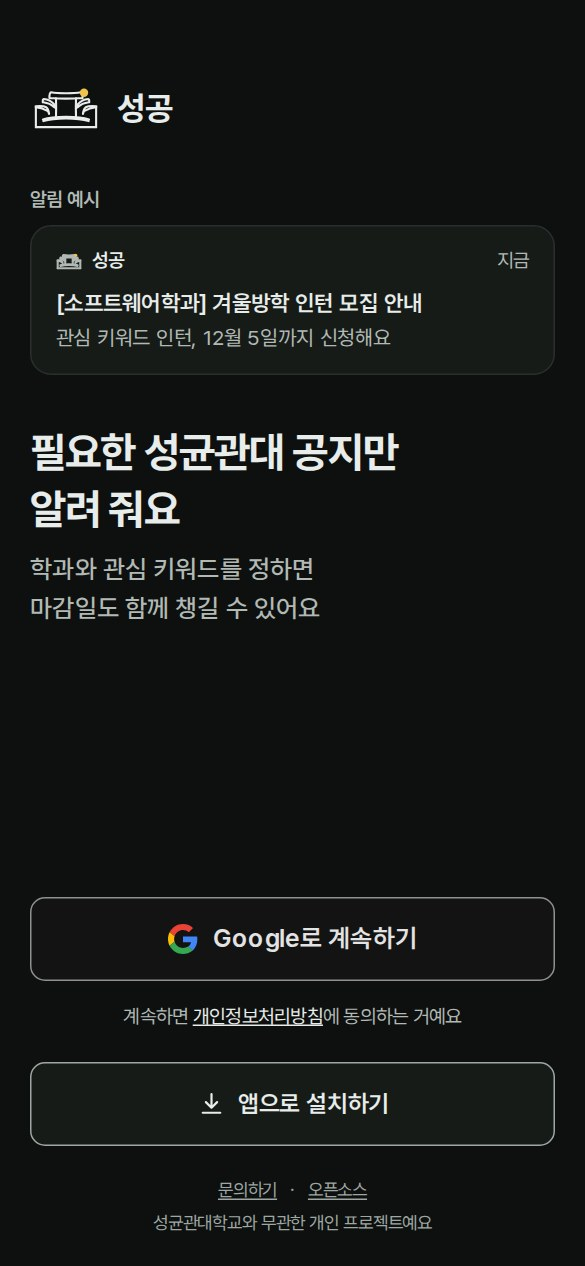
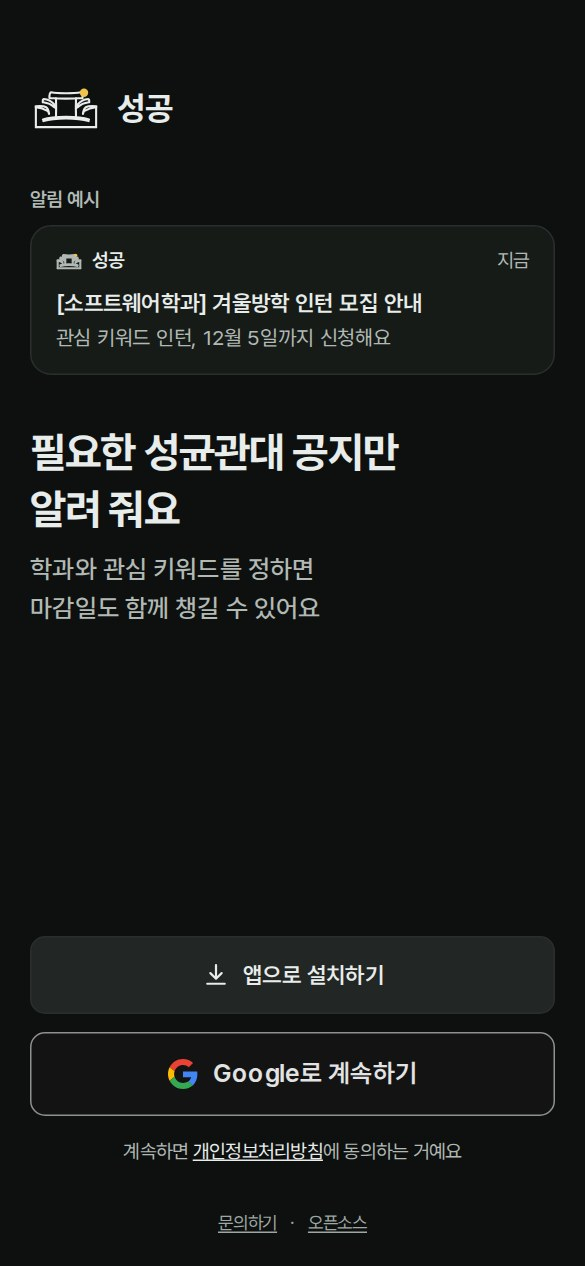
feat(web): 설치 단추를 로그인 화면의 Google 단추 위로 옮기고, 하단 링크를 화면 맨 아래에 둔다
설치는 테두리 옅은 면으로 가볍게 그려 Google이 주 행동으로 남게 하고, 하단 묶음을 바닥에 붙여 설치 신호가 늦어도 Google 단추 자리가 움직이지 않게 한다. 로그인 뒤에는 팝업 없이 설정의 앱 설치 줄(안드로이드 단추, iOS 안내)에서만 안내한다. 필수가 아닌 성균관대 무관 안내는 뺐다. README 로그인 캡처를 새로 찍었다. 독립 평가 8.2. 웹 단위 188, e2e 96 통과.

Changed region(s): [[0.0308, 0.7085, 0.9538, 0.9858], [0.9231, 0.8318, 0.9538, 0.8934], [0.0308, 0.8626, 0.0615, 0.8934]]

diff --git a/web/src/login-screen.tsx b/web/src/login-screen.tsx
@@ -18,11 +18,10 @@ export function LoginStatus({ text }: { text: string }) {
 export function LoginScreen({ app }: { app: AppController }) {
   const busy = app.authBusy;
   // 휴대폰에서만 "앱으로 설치하기"를 보인다. 주 행동은 Google 단추 하나이고 설치는 그 아래 조용한 보조 행동이다.
-  const reserve = /Android/.test(navigator.userAgent) && installMode(navigator.userAgent, isStandalone(), true) !== 'none';
   const mode = installMode(navigator.userAgent, isStandalone(), !!app.install);
   // 토스 첫 화면 구성(TDS Top: 위 그림, 28px 제목, 17px 설명, 아래 고정 단추 하나)을 따른다. 가운데에는 이 앱이 하는 일을 알림 예시 하나로 보여 준다.
-  return <div className="flex flex-col min-h-dvh bg-bg min-[720px]:items-center min-[720px]:justify-center">
-    <div className="flex flex-1 flex-col w-full px-[20px] py-0 min-[720px]:flex-none min-[720px]:max-w-[420px] min-[720px]:px-0 min-[720px]:py-[48px]">
+  return <div className="flex flex-col min-h-dvh bg-bg">
+    <div className="flex flex-1 flex-col w-full px-[20px] py-0 min-[720px]:my-auto min-[720px]:flex-none min-[720px]:max-w-[420px] min-[720px]:self-center min-[720px]:px-0 min-[720px]:py-[48px]">
       <div className="flex flex-1 flex-col pt-[calc(48px_+_env(safe-area-inset-top))] min-[720px]:flex-none min-[720px]:pt-0">
         {/* 맨 위에 앱 아이콘과 이름(사용자 요청: 아이콘은 보여야 한다), 그 아래 TDS Top의 그림 자리에 알림 예시를 둔다. */}
         <div className="flex items-center gap-[10px] mb-[28px] text-[22px] leading-[30px] font-bold text-ink"><svg className="w-[48px] h-[48px] flex-none" aria-hidden="true"><use href="icons/sprite.svg#brand" /></svg><span>{APP_NAME}</span></div>
@@ -44,6 +43,11 @@ export function LoginScreen({ app }: { app: AppController }) {
         </div>
       </div>
       <div className="pt-[24px] pb-[calc(20px_+_env(safe-area-inset-bottom))] min-[720px]:mt-0 min-[720px]:pb-0">
+        {/* 설치 안내는 Google 단추 위에 둔다. 아래 묶음이 화면 바닥에 붙어 있어 이 칸이 생기거나 사라져도 Google 단추 자리는 움직이지 않는다. 눌리는 곳이지만 Google 단추보다 가볍게(테두리 없는 옅은 면) 그린다. */}
+        {mode === 'prompt' ? <button type="button" className="mb-[12px] flex h-[52px] w-full items-center justify-center gap-[8px] rounded-md border border-line bg-sunken text-[15px] font-semibold text-ink active:bg-line min-[720px]:hidden" onClick={() => { void app.runInstall(); }}>
+          <svg viewBox="0 0 24 24" width="20" height="20" fill="none" stroke="currentColor" strokeWidth="1.75" strokeLinecap="round" strokeLinejoin="round" aria-hidden="true" className="flex-none"><path d="M12 4v11M7.5 10.5L12 15l4.5-4.5M5 19h14" /></svg>앱으로 설치하기</button> : null}
+        {/* iOS Safari에는 설치 창이 없어서 누르는 단추가 아니라 방법만 조용히 알려 준다(면과 테두리를 주지 않아 눌리는 곳처럼 보이지 않게). */}
+        {mode === 'ios' ? <p className="m-0 mb-[12px] text-center text-[14px] leading-[21px] text-ink-2 min-[720px]:hidden">공유 버튼에서 <b className="font-semibold text-ink">‘홈 화면에 추가’</b>를 고르면<br />앱처럼 쓸 수 있어요</p> : null}
         <button type="button" className="flex items-center justify-center gap-[10px] w-full h-[56px] border border-[light-dark(#747775,#8E918F)] rounded-md bg-[light-dark(#FFFFFF,#131314)] text-[light-dark(#1F1F1F,#E3E3E3)] text-[17px] font-semibold [&:active:not(:disabled)]:bg-[light-dark(#F2F2F2,#1E1F20)] disabled:opacity-70 focus-visible:outline-2 focus-visible:outline-accent focus-visible:outline-offset-2" disabled={busy} aria-busy={busy} onClick={() => { void app.signIn(); }}>
           {busy ? null : <GoogleG />}
           <span>{busy ? 'Google로 이동하고 있어요' : 'Google로 계속하기'}</span>
@@ -52,17 +56,9 @@ export function LoginScreen({ app }: { app: AppController }) {
           {app.authError ? <p className="m-0 text-[14px] leading-[20px] text-center text-danger" role="alert">{app.authError}</p> : null}
         </div>
         <p className="m-0 mt-[14px] text-[13px] leading-[20px] text-center text-ink-2 min-[720px]:text-[14px]">계속하면 <a className="inline-block px-[4px] py-[12px] -mx-[4px] -my-[12px] text-ink" href="./privacy.html">개인정보처리방침</a>에 동의하는 거예요</p>
-        {/* 설치 칸은 안드로이드에서 처음부터 자리를 잡아 둔다(설치 창 신호가 늦게 와도 Google 단추가 움직이지 않게). */}
-        <div className={`install min-[720px]:hidden ${reserve || mode !== 'none' ? 'min-h-[76px] pt-[20px]' : ''}`}>
-          {mode === 'prompt' ? <button type="button" className="flex h-[56px] w-full items-center justify-center gap-[8px] rounded-md border border-ink-3 bg-surface text-[16px] font-semibold text-ink active:bg-sunken" onClick={() => { void app.runInstall(); }}>
-            <svg viewBox="0 0 24 24" width="20" height="20" fill="none" stroke="currentColor" strokeWidth="1.75" strokeLinecap="round" strokeLinejoin="round" aria-hidden="true" className="flex-none"><path d="M12 4v11M7.5 10.5L12 15l4.5-4.5M5 19h14" /></svg>앱으로 설치하기</button> : null}
-          {/* iOS Safari에는 설치 창이 없어서 누르는 단추가 아니라 방법만 조용히 알려 준다(면과 테두리를 주지 않아 눌리는 곳처럼 보이지 않게). */}
-          {mode === 'ios' ? <p className="m-0 text-center text-[14px] leading-[21px] text-ink-2">공유 버튼에서 <b className="font-semibold text-ink">‘홈 화면에 추가’</b>를 고르면<br />앱처럼 쓸 수 있어요</p> : null}
-        </div>
-        {/* 서비스 정보: 처리방침 말고 눈에 띄지 않게 한 줄. 문의는 공개 이슈로 받는다(개인 연락처를 적지 않는다). */}
-        <p className="m-0 mt-[20px] text-center text-[12px] leading-[18px] text-ink-3 min-[720px]:mt-[36px]"><a className="inline-block px-[6px] py-[13px] -my-[13px] text-ink-3 underline underline-offset-2" href="https://github.com/aniseongu/skku-notice-platform/issues" target="_blank" rel="noopener noreferrer">문의하기</a> · <a className="inline-block px-[6px] py-[13px] -my-[13px] text-ink-3 underline underline-offset-2" href="https://github.com/aniseongu/skku-notice-platform" target="_blank" rel="noopener noreferrer">오픈소스</a></p>
-        <p className="m-0 mt-[4px] text-center text-[12px] leading-[18px] text-ink-3">성균관대학교와 무관한 개인 프로젝트예요</p>
       </div>
     </div>
+  {/* 서비스 정보는 화면 맨 아래에 둔다. PC에서는 창 바닥에 붙어 로그인 묶음과 떨어져 있고, 휴대폰에서는 로그인 묶음 바로 아래 바닥이다. 개인 연락처는 처리방침에만 적는다. */}
+    <footer className="px-[20px] pt-[8px] pb-[calc(20px_+_env(safe-area-inset-bottom))] text-center text-[12px] leading-[18px] text-ink-3"><a className="inline-block px-[6px] py-[13px] -my-[13px] text-ink-3 underline underline-offset-2" href="https://github.com/aniseongu/skku-notice-platform/issues" target="_blank" rel="noopener noreferrer">문의하기</a> · <a className="inline-block px-[6px] py-[13px] -my-[13px] text-ink-3 underline underline-offset-2" href="https://github.com/aniseongu/skku-notice-platform" target="_blank" rel="noopener noreferrer">오픈소스</a></footer>
   </div>;
 }

diff --git a/web/src/platform-settings.tsx b/web/src/platform-settings.tsx
@@ -37,6 +37,8 @@ export interface SettingsModel {
   theme: 'auto' | 'light' | 'dark';
   setTheme: (theme: 'auto' | 'light' | 'dark') => void;
   canInstall: boolean;
+  /** iOS Safari: 설치 창이 없어 홈 화면 추가 방법만 알려 준다. */
+  iosInstall?: boolean;
   install: () => void;
   showShortcuts: () => void;
   // 게시판
@@ -208,6 +210,8 @@ function Overview({ model }: { model: SettingsModel }) {
       {model.canInstall ? <Setting name="앱 설치" help="홈 화면에서 바로 열어요" className="min-[720px]:hidden">
         <button type="button" className="ghost-button inline-flex items-center justify-center min-h-[44px] px-[16px] py-0 rounded-md border border-line bg-surface text-ink text-[15px] font-semibold no-underline whitespace-nowrap select-none [-webkit-user-select:none] disabled:border-line disabled:bg-transparent disabled:text-ink-3 disabled:opacity-60" onClick={model.install}>앱으로 설치하기</button>
       </Setting> : null}
+      {/* 로그인 뒤에도 설치는 팝업이나 배너로 다시 묻지 않고, 설정의 "화면"에서 원할 때 찾게 한다. 설치한 앱으로 열면 두 줄 모두 보이지 않는다. */}
+      {model.iosInstall && !model.canInstall ? <Setting name="앱 설치" help="공유 버튼에서 ‘홈 화면에 추가’를 고르면 앱처럼 쓸 수 있어요" className="min-[720px]:hidden" /> : null}
       <Setting name="단축키" help="키보드로 빠르게 이동해요" className="kbd-only">
         <button type="button" className="ghost-button inline-flex items-center justify-center min-h-[44px] px-[16px] py-0 rounded-md border border-line bg-surface text-ink text-[15px] font-semibold no-underline whitespace-nowrap select-none [-webkit-user-select:none] disabled:border-line disabled:bg-transparent disabled:text-ink-3 disabled:opacity-60" aria-keyshortcuts="?" onClick={model.showShortcuts}>단축키 보기</button>
       </Setting>

diff --git a/web/src/notice-shell.tsx b/web/src/notice-shell.tsx
@@ -6,6 +6,7 @@ import { Fragment, useEffect, useRef, useSyncExternalStore, type ReactNode } fro
 import { applyBoardOrder } from './board-order';
 import { type IconName, type Notice, boardName, keywordMatches, deadlineGroup, deadlinePassed, postedGroup, safeUrl, todayKst } from './data';
 import { APP_NAME } from './brand';
+import { installMode, isStandalone } from './install-hint';
 import { CHECKBOX, CHIP, CHIPS, CHIP_ADD } from './cls';
 import { authClient } from './auth';
 import { keywordCounts } from './keyword-counts';
@@ -194,7 +195,7 @@ function settingsModel(app: AppController) {
     signIn: () => { void app.signIn(); }, signOut: () => { void app.signOut(); },
     section: app.settingsSection, openSection: (section: string | null) => app.openSettingsSection(section),
     theme: app.theme, setTheme: (theme: 'auto' | 'light' | 'dark') => app.setTheme(theme),
-    canInstall: !!app.install, install: () => { void app.runInstall(); }, showShortcuts: () => { app.shortcutsOpen = true; },
+    canInstall: !!app.install && !isStandalone(), iosInstall: installMode(navigator.userAgent, isStandalone(), !!app.install) === 'ios', install: () => { void app.runInstall(); }, showShortcuts: () => { app.shortcutsOpen = true; },
     sources: app.sources.filter((source) => !source.external).map((source) => ({ id: source.id, label: boardName(source, source.id) })),
     boardOrder: { boards: applyBoardOrder(app.schoolSources(), app.boardOrder).map((source) => ({ id: source.id, label: boardName(source, source.id) })),
       status: app.authUserId && app.boardOrderAccount ? app.boardOrderStatus : '' as const, move: (ids: string[]) => app.setBoardOrder(ids) },

diff --git a/web/public/privacy.html b/web/public/privacy.html
@@ -99,7 +99,6 @@
 
   <h2 id="s6">6. 문의와 개인정보 보호책임자</h2>
   <p>개인정보 보호책임자는 이 서비스를 운영하는 사람입니다. 연락처는 <a href="mailto:asw3521@g.skku.edu">asw3521@g.skku.edu</a>입니다. 궁금한 점은 이 주소나 <a href="https://github.com/aniseongu/skku-notice-platform/issues" rel="noopener noreferrer" target="_blank">GitHub 이슈</a>로 남겨 주세요. 이슈는 공개되니 이메일 주소나 개인 정보는 적지 말아 주세요.</p>
-  <p>이 서비스는 성균관대학교와 무관한 개인 프로젝트입니다.</p>
 
   <h2 id="s7">7. 바뀔 때</h2>
   <p>기능이 바뀌어 받는 정보가 달라지면 이 글을 먼저 고치고 위의 수정일을 바꿉니다.</p>

diff --git a/PRIVACY.md b/PRIVACY.md
@@ -13,4 +13,3 @@
 - 로그인 상태와 화면 설정은 브라우저 저장 공간(localStorage)에, 앱을 빨리 여는 파일은 서비스 워커 캐시에 남습니다. 광고·분석·추적용 쿠키나 도구는 쓰지 않으며, 브라우저의 사이트 데이터 삭제로 지울 수 있습니다.
 - 내 정보는 설정 화면에서 직접 보고, 고치고, 지울 수 있습니다. 설정에서 할 수 없는 요청은 아래 문의로 받습니다.
 - 개인정보 보호책임자는 이 서비스를 운영하는 사람이고, 연락처는 asw3521@g.skku.edu입니다. 문의는 이 주소나 [GitHub 이슈](https://github.com/aniseongu/skku-notice-platform/issues)로 받습니다. 이슈는 공개되므로 이메일이나 개인 정보는 적지 말아 주세요.
-- 이 서비스는 성균관대학교와 무관한 개인 프로젝트입니다.
